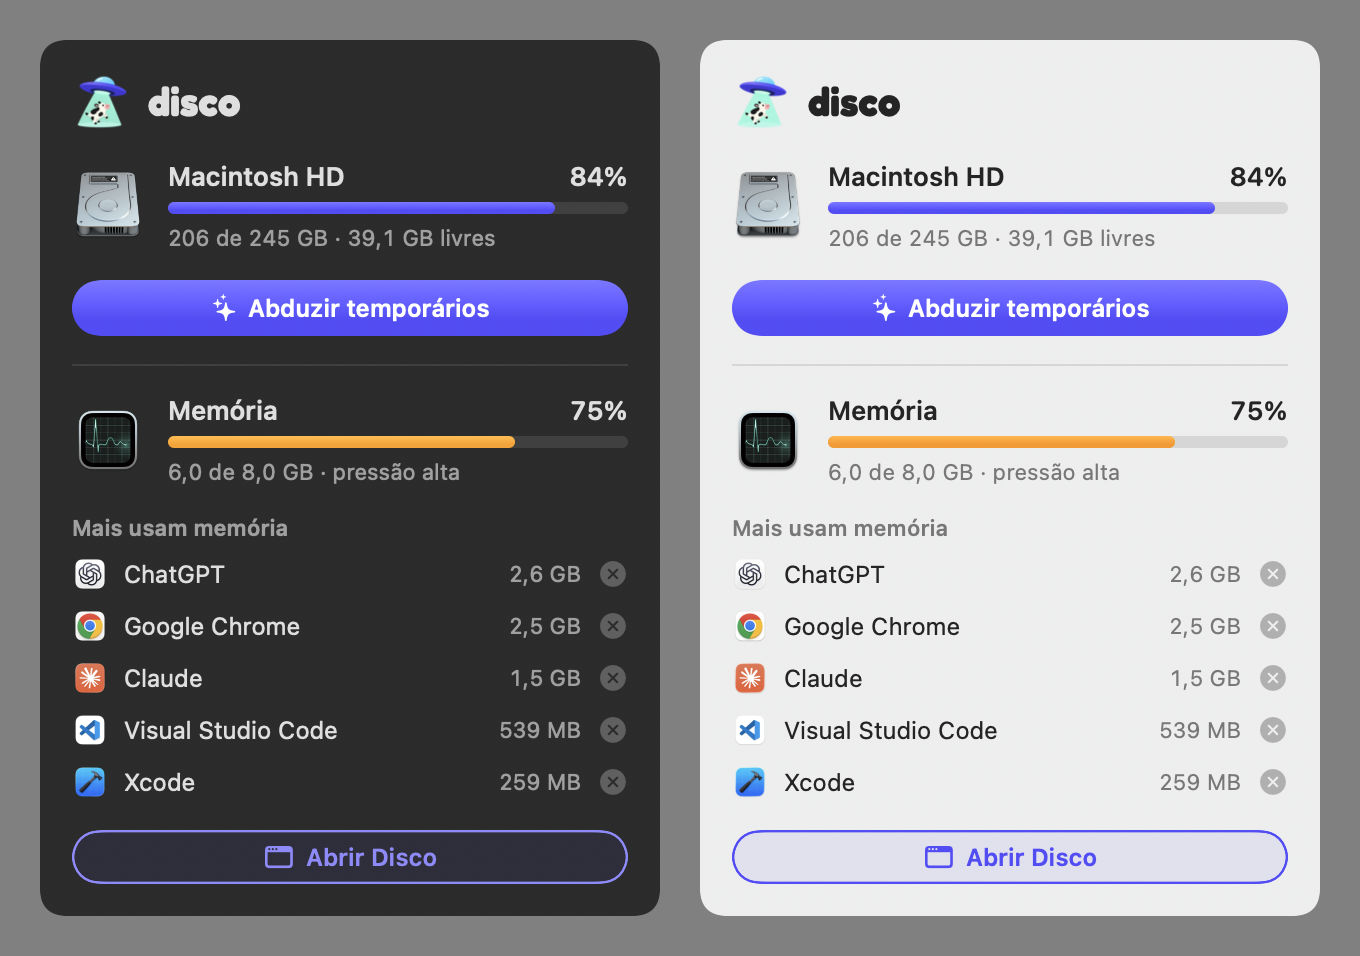
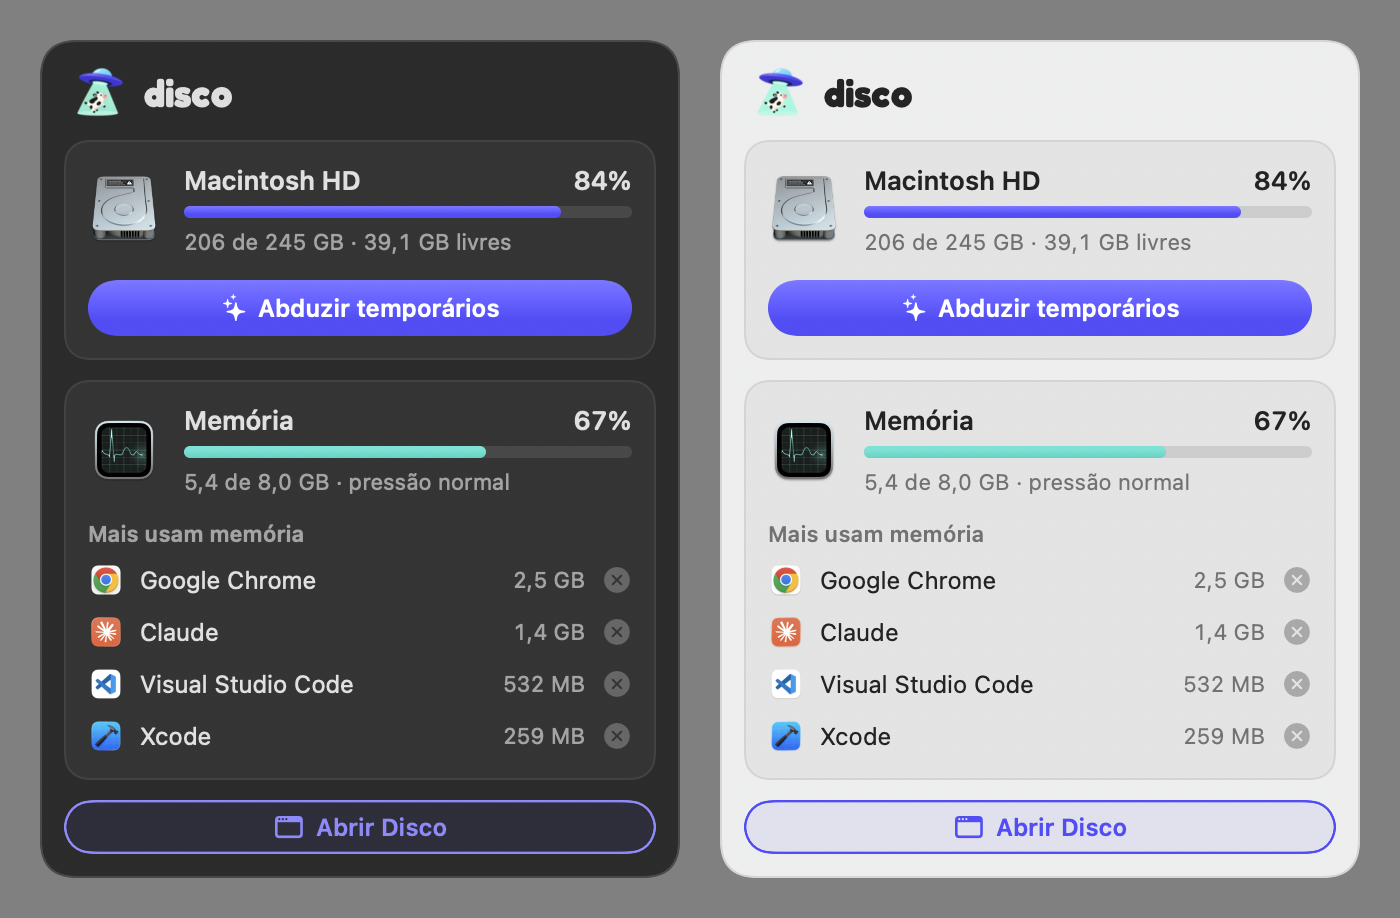
Painel da barra de menus com cantos arredondados reais, borda fina e módulos (estilo Central de Controle)

diff --git a/App/MenuBar.swift b/App/MenuBar.swift
@@ -33,6 +33,50 @@ final class StatsModel: ObservableObject {
 }
 
 @MainActor
+private let panelRadius: CGFloat = 16
+
+/// Máscara esticável com cantos arredondados para o vidro do painel.
+private func roundedMask(radius: CGFloat) -> NSImage {
+    let edge = radius * 2 + 1
+    let image = NSImage(size: NSSize(width: edge, height: edge), flipped: false) { rect in
+        NSColor.black.setFill()
+        NSBezierPath(roundedRect: rect, xRadius: radius, yRadius: radius).fill()
+        return true
+    }
+    image.capInsets = NSEdgeInsets(top: radius, left: radius, bottom: radius, right: radius)
+    image.resizingMode = .stretch
+    return image
+}
+
+/// Contorno fino e claro, como o dos painéis da Central de Controle; acompanha o tema.
+final class PanelBorderView: NSView {
+    override init(frame: NSRect) {
+        super.init(frame: frame)
+        wantsLayer = true
+        layer?.cornerRadius = panelRadius
+        layer?.borderWidth = 1
+    }
+
+    required init?(coder: NSCoder) { fatalError() }
+
+    override func hitTest(_ point: NSPoint) -> NSView? { nil }  // não rouba cliques
+
+    override func viewDidChangeEffectiveAppearance() {
+        super.viewDidChangeEffectiveAppearance()
+        updateBorder()
+    }
+
+    override func viewDidMoveToWindow() {
+        super.viewDidMoveToWindow()
+        updateBorder()
+    }
+
+    private func updateBorder() {
+        let dark = effectiveAppearance.bestMatch(from: [.darkAqua, .aqua]) == .darkAqua
+        layer?.borderColor = (dark ? NSColor.white.withAlphaComponent(0.14) : NSColor.black.withAlphaComponent(0.1)).cgColor
+    }
+}
+
 /// Painel que pode receber cliques sem ativar o app (como os da Central de Controle).
 final class MenuBarPanel: NSPanel {
     override var canBecomeKey: Bool { true }
@@ -75,22 +119,23 @@ final class StatusController: NSObject, NSWindowDelegate {
         panel.collectionBehavior = [.canJoinAllSpaces, .fullScreenAuxiliary]
         panel.delegate = self
 
+        // O vidro (desfoque do que está atrás) só é recortado por maskImage; cornerRadius não basta.
         let glass = NSVisualEffectView()
         glass.material = .popover
         glass.state = .active
         glass.blendingMode = .behindWindow
-        glass.wantsLayer = true
-        glass.layer?.cornerRadius = 12
-        glass.layer?.cornerCurve = .continuous
-        glass.layer?.masksToBounds = true
-        host.translatesAutoresizingMaskIntoConstraints = false
-        glass.addSubview(host)
-        NSLayoutConstraint.activate([
-            host.leadingAnchor.constraint(equalTo: glass.leadingAnchor),
-            host.trailingAnchor.constraint(equalTo: glass.trailingAnchor),
-            host.topAnchor.constraint(equalTo: glass.topAnchor),
-            host.bottomAnchor.constraint(equalTo: glass.bottomAnchor),
-        ])
+        glass.maskImage = roundedMask(radius: panelRadius)
+        let border = PanelBorderView()
+        for view in [host, border] as [NSView] {
+            view.translatesAutoresizingMaskIntoConstraints = false
+            glass.addSubview(view)
+            NSLayoutConstraint.activate([
+                view.leadingAnchor.constraint(equalTo: glass.leadingAnchor),
+                view.trailingAnchor.constraint(equalTo: glass.trailingAnchor),
+                view.topAnchor.constraint(equalTo: glass.topAnchor),
+                view.bottomAnchor.constraint(equalTo: glass.bottomAnchor),
+            ])
+        }
         panel.contentView = glass
 
         if let button = item.button {
@@ -124,6 +169,7 @@ final class StatusController: NSObject, NSWindowDelegate {
         // Sem ativar o app: assim a janela do Disco (se aberta) não vem para frente junto.
         panel.alphaValue = 0
         panel.orderFrontRegardless()
+        panel.invalidateShadow()  // sombra acompanha os cantos arredondados
         panel.makeKey()
         NSAnimationContext.runAnimationGroup { $0.duration = 0.12; panel.animator().alphaValue = 1 }
         button.highlight(true)
@@ -291,52 +337,72 @@ struct PopoverView: View {
     let onOpen: () -> Void
 
     var body: some View {
-        VStack(alignment: .leading, spacing: 14) {
+        VStack(alignment: .leading, spacing: 10) {
             HStack(spacing: 8) {
                 Image("Ilustracao")
                     .resizable()
                     .interpolation(.high)
-                    .frame(width: 30, height: 30)
-                Text("disco").font(.fredoka(20))
+                    .frame(width: 28, height: 28)
+                Text("disco").font(.fredoka(19))
                 Spacer()
             }
+            .padding(.horizontal, 4)
 
-            StatSection(
-                icon: driveIcon,
-                title: "Macintosh HD",
-                fraction: model.diskFraction,
-                tint: .diskTint(model.diskFraction),
-                detail: "\(gb(model.disk.total - model.disk.free)) de \(gb(model.disk.total)) GB · \(gb(model.disk.free)) GB livres"
-            )
-            Button(action: onClean) {
-                CapsuleLabel(title: "Abduzir temporários", systemImage: "sparkles", fullWidth: true)
+            VStack(alignment: .leading, spacing: 12) {
+                StatSection(
+                    icon: driveIcon,
+                    title: "Macintosh HD",
+                    fraction: model.diskFraction,
+                    tint: .diskTint(model.diskFraction),
+                    detail: "\(gb(model.disk.total - model.disk.free)) de \(gb(model.disk.total)) GB · \(gb(model.disk.free)) GB livres"
+                )
+                Button(action: onClean) {
+                    CapsuleLabel(title: "Abduzir temporários", systemImage: "sparkles", fullWidth: true)
+                }
+                .buttonStyle(CapsuleButtonStyle())
             }
-            .buttonStyle(CapsuleButtonStyle())
+            .module()
 
-            Divider()
-
-            StatSection(
-                icon: activityIcon,
-                title: "Memória",
-                fraction: model.memoryFraction,
-                tint: .memoryTint(model.memory.pressure),
-                detail: "\(ramGB(model.memory.used)) de \(ramGB(model.memory.total)) GB · \(pressureLabel(model.memory.pressure))"
-            )
-            VStack(alignment: .leading, spacing: 6) {
-                Text("Mais usam memória")
-                    .font(.system(size: 11, weight: .semibold))
-                    .foregroundStyle(.secondary)
-                ForEach(model.apps, id: \.path) { app in
-                    AppLine(app: app) { onKill(app.path) }
+            VStack(alignment: .leading, spacing: 12) {
+                StatSection(
+                    icon: activityIcon,
+                    title: "Memória",
+                    fraction: model.memoryFraction,
+                    tint: .memoryTint(model.memory.pressure),
+                    detail: "\(ramGB(model.memory.used)) de \(ramGB(model.memory.total)) GB · \(pressureLabel(model.memory.pressure))"
+                )
+                VStack(alignment: .leading, spacing: 6) {
+                    Text("Mais usam memória")
+                        .font(.system(size: 11, weight: .semibold))
+                        .foregroundStyle(.secondary)
+                    ForEach(model.apps, id: \.path) { app in
+                        AppLine(app: app) { onKill(app.path) }
+                    }
                 }
             }
+            .module()
 
             Button(action: onOpen) {
                 CapsuleLabel(title: "Abrir Disco", systemImage: "macwindow", style: .outline, fullWidth: true)
             }
             .buttonStyle(CapsuleButtonStyle())
         }
-        .padding(16)
-        .frame(width: 310)
+        .padding(12)
+        .frame(width: 320)
+    }
+}
+
+private extension View {
+    /// Cartão no estilo dos módulos da Central de Controle.
+    func module() -> some View {
+        padding(12)
+            .background(
+                RoundedRectangle(cornerRadius: 12, style: .continuous)
+                    .fill(Color.primary.opacity(0.05))
+                    .overlay(
+                        RoundedRectangle(cornerRadius: 12, style: .continuous)
+                            .strokeBorder(Color.primary.opacity(0.08), lineWidth: 1)
+                    )
+            )
     }
 }
